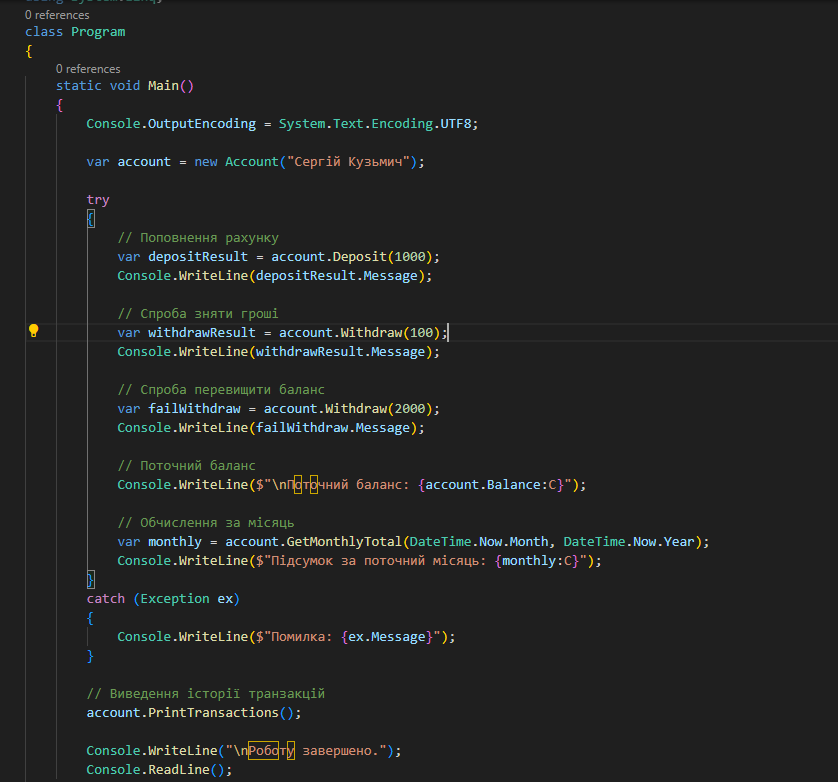
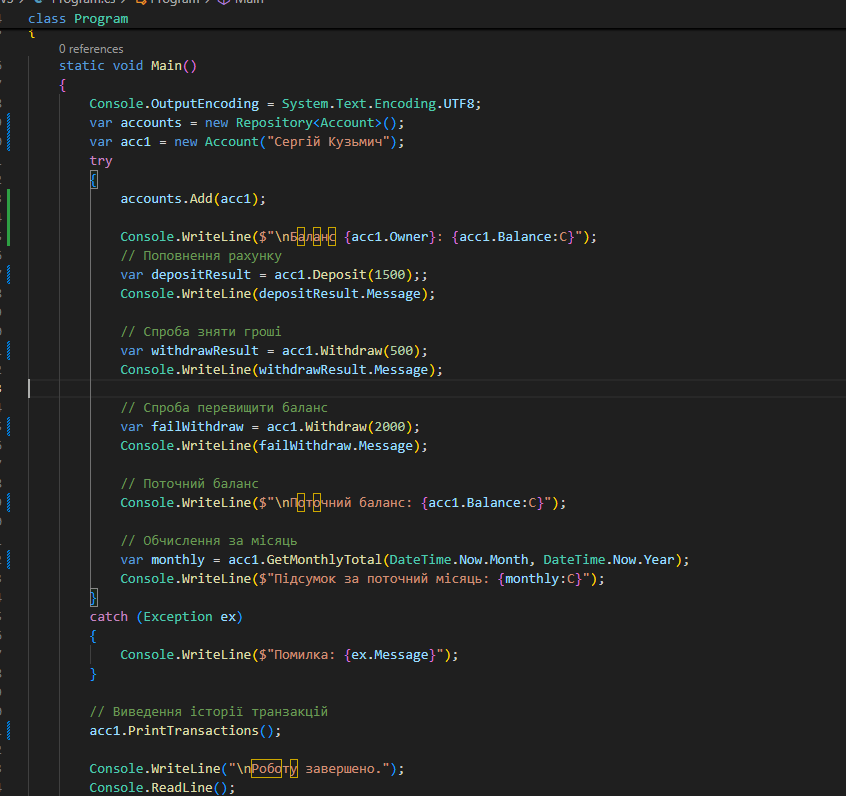
Added Repository, IRepository

diff --git a/lab5v3/Program.cs b/lab5v3/Program.cs
@@ -6,28 +6,30 @@ class Program
     static void Main()
     {
         Console.OutputEncoding = System.Text.Encoding.UTF8;
-
-        var account = new Account("Сергій Кузьмич");
-
+        var accounts = new Repository<Account>();
+        var acc1 = new Account("Сергій Кузьмич");
         try
         {
+            accounts.Add(acc1);
+            
+            Console.WriteLine($"\nБаланс {acc1.Owner}: {acc1.Balance:C}");
             // Поповнення рахунку
-            var depositResult = account.Deposit(1000);
+            var depositResult = acc1.Deposit(1500);;
             Console.WriteLine(depositResult.Message);
 
             // Спроба зняти гроші
-            var withdrawResult = account.Withdraw(100);
+            var withdrawResult = acc1.Withdraw(500);
             Console.WriteLine(withdrawResult.Message);
 
             // Спроба перевищити баланс
-            var failWithdraw = account.Withdraw(2000);
+            var failWithdraw = acc1.Withdraw(2000);
             Console.WriteLine(failWithdraw.Message);
 
             // Поточний баланс
-            Console.WriteLine($"\nПоточний баланс: {account.Balance:C}");
+            Console.WriteLine($"\nПоточний баланс: {acc1.Balance:C}");
 
             // Обчислення за місяць
-            var monthly = account.GetMonthlyTotal(DateTime.Now.Month, DateTime.Now.Year);
+            var monthly = acc1.GetMonthlyTotal(DateTime.Now.Month, DateTime.Now.Year);
             Console.WriteLine($"Підсумок за поточний місяць: {monthly:C}");
         }
         catch (Exception ex)
@@ -36,7 +38,7 @@ class Program
         }
 
         // Виведення історії транзакцій
-        account.PrintTransactions();
+        acc1.PrintTransactions();
 
         Console.WriteLine("\nРоботу завершено.");
         Console.ReadLine();
@@ -46,12 +48,10 @@ public class InsufficientFundsException : Exception
 {
     public InsufficientFundsException(string message) : base(message) { }
 }
-
 public class InvalidAmountException : Exception
 {
     public InvalidAmountException(string message) : base(message) { }
 }
-
 public class Result<T>
 {
     public bool IsSuccess { get; }
@@ -69,15 +69,12 @@ public class Result<T>
     {
         return new Result<T>(true, message, data);
     }
-
-
     public static Result<T> Failure(string message)
     {
         return new Result<T>(false, message, default);
     }
         
 }
-
 public class Transaction
 {
     public DateTime Date { get; }
@@ -104,7 +101,6 @@ public class Transaction
             return $"{Date:g} | {Type} | {Amount:0.00} ₴";
     }
 }
-
 public class Account
 {
     public string Owner { get; }
@@ -169,4 +165,35 @@ public class Account
             Console.WriteLine(t);
     }
 }
-
+public interface IRepository<T>
+{
+    void Add(T item);
+    bool Remove(T item);
+    T? Find(Func<T, bool> predicate);
+    IEnumerable<T> All();
+    IEnumerable<T> Where(Func<T, bool> predicate);
+}
+public class Repository<T> : IRepository<T>
+{
+    private readonly List<T> _items = new();
+    public void Add(T item)
+    {
+        _items.Add(item);
+    }
+    public bool Remove(T item)
+    {
+        return _items.Remove(item);
+    }
+    public T? Find(Func<T, bool> predicate)
+    {
+        return _items.FirstOrDefault(predicate);
+    }
+    public IEnumerable<T> All()
+    {
+        return _items;
+    }
+    public IEnumerable<T> Where(Func<T, bool> predicate)
+    {
+        return _items.Where(predicate);
+    }
+}

diff --git a/lab5v3/README.md b/lab5v3/README.md
@@ -24,7 +24,7 @@
 - Виведення історії транзакцій.
 - Обчислення балансу станом на кінець вибраного місяця.
 - Обробка винятків через try-catch.
-- Використання узагальненого класу Result<T> для безпечного повернення результатів.
+- Узагальнені класи Result<T> і Repository<T>.
 
 ### Приклад запуску програми
 ![Text edit screen](program_screenshot.png)
